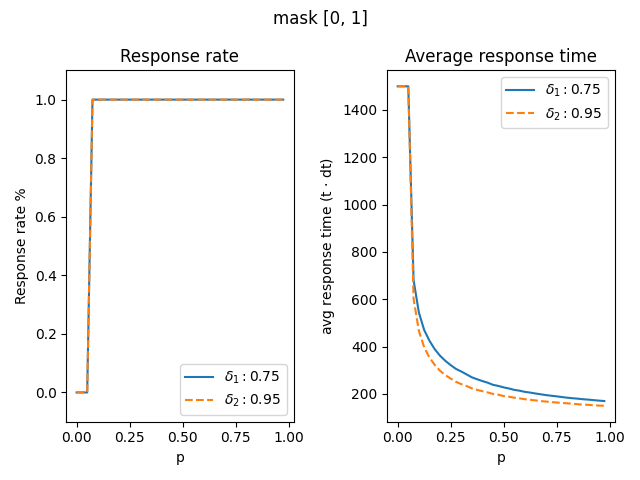
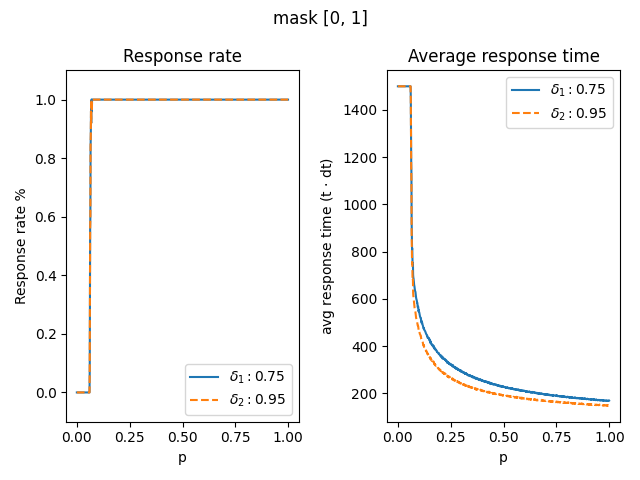
:gem:

diff --git a/tests/test_masked_timestamps_csv.py b/tests/test_masked_timestamps_csv.py
@@ -1,0 +1,136 @@
+import csv
+import os
+from pathlib import Path
+
+import numpy as np
+import glob
+
+import pandas as pd
+import plotly.graph_objects as go
+import plotly.io as pio
+import plotly.express as px
+
+from plotly.subplots import make_subplots
+
+from res import params
+from res.solvers import time_sequence, solve_population, euler_mayurama
+from versions.masked_population import masked_array
+
+pio.renderers.default = "browser"
+
+p_range = np.arange(0., 1.001, 0.025)
+d1 = 0.35
+d2 = 0.95
+
+masks = [
+    [0, 1],
+    [0.5, 0.5],
+    [1, 0]
+]
+
+n_pulses = 2
+params.tf = 2e3
+params.t_range = [0, 500]
+folder = f"..\\imgs\\timestamps\\[{d1},{d2}]"
+
+d1s = rf"$\delta_1:{d1}$"
+d2s = rf"$\delta_2:{d2}$"
+
+
+def show():
+    fig = go.Figure()
+
+    for f in os.listdir(folder):
+        df = pd.read_csv(folder + "\\" + f)
+        ts = df["t"]
+        trace1 = go.Scatter(visible=False, line=dict(color="blue", width=2),
+                            name=rf"$\delta_1:{d1}$", x=ts, y=df["x1"])
+        trace2 = go.Scatter(visible=False, line=dict(color="red", width=2),
+                            name=rf"$\delta_2:{d2}$", x=ts, y=df["x2"])
+        fig.add_traces([trace1, trace2])
+
+    fig.data[0].visible = True
+    fig.data[1].visible = True
+
+    steps = []
+    for i in range(len(p_range)):
+        pulse_strength = dict(
+            method="update",
+            args=[{"visible": [False] * len(fig.data)},
+                  {"title": f"Pulse strength: {p_range[i]}"}],
+            label=p_range[i]
+        )
+        pulse_strength["args"][0]["visible"][i * 2] = True
+        pulse_strength["args"][0]["visible"][i * 2 + 1] = True
+
+        steps.append(pulse_strength)
+
+    sliders = [dict(
+        active=1,
+        currentvalue={"prefix": "pulse strength ", "suffix": ""},
+        pad={"t": 10},
+        steps=steps
+    )]
+
+    fig.update_layout(sliders=sliders)
+    fig.show()
+
+
+def write():
+    ts = time_sequence(params.t0, params.tf, params.dt)
+
+    for mask in masks:
+        print(f"mask {mask}")
+        laser = masked_array([d1, d2], mask)
+
+        for pulse_strength in p_range:
+            print(pulse_strength)
+
+            x1_sum = np.zeros((len(ts)))
+            y1_sum = np.zeros((len(ts)))
+            x2_sum = np.zeros((len(ts)))
+            y2_sum = np.zeros((len(ts)))
+            w_sum = np.zeros((len(ts)))
+
+            for _ in range(n_pulses):
+                laser.state0()
+                params.p = pulse_strength
+                traj = solve_population(ts, laser, euler_mayurama)
+                x1_sum = np.add(x1_sum, traj[:, 0, 0])
+                x2_sum = np.add(x2_sum, traj[:, 1, 0])
+                y1_sum = np.add(y1_sum, traj[:, 0, 1])
+                y2_sum = np.add(y2_sum, traj[:, 1, 1])
+                w_sum = np.add(w_sum, traj[:, 0, 2])
+
+            x1 = x1_sum / n_pulses
+            x2 = x2_sum / n_pulses
+            y1 = y1_sum / n_pulses
+            y2 = y2_sum / n_pulses
+            w = w_sum / n_pulses
+
+            timestamp = []
+            for i in range(len(ts)):
+                timestamp.append({
+                    "t": ts[i],
+                    "x1": x1[i],
+                    "x2": x2[i],
+                    "y1": y1[i],
+                    "y2": y2[i],
+                    "w": w[i],
+                })
+
+            pcsv = Path(folder + f"/mask{mask}/p_{pulse_strength:.3f}.csv")
+            pcsv.parent.mkdir(exist_ok=True, parents=True)
+            try:
+                with open(pcsv, 'w', newline='', encoding='utf-8') as csvfile:
+                    print(f"writing file {csvfile}...")
+                    writer = csv.DictWriter(csvfile, fieldnames=['t', 'x1', 'x2', 'y1', 'y2', 'w'])
+                    writer.writeheader()
+                    writer.writerows(timestamp)
+
+            except IOError:
+                print("I/O error")
+
+
+# show()
+write()

diff --git a/tests/test_masked_timestamps.py b/tests/test_masked_timestamps.py
@@ -1,0 +1,78 @@
+from res import params
+from res.solvers import time_sequence, solve_population, euler_mayurama
+from versions.masked_population import masked_array
+import plotly.graph_objects as go
+import plotly.io as pio
+import numpy as np
+
+pio.renderers.default = "browser"
+
+params.tf = 5e3
+params.t_range = [0, 500]
+
+d1 = 0.35
+d2 = 0.95
+
+mask = [0, 1]
+n_pulses = 2
+laser = masked_array([d1, d2], mask)
+
+ts = time_sequence(params.t0, params.tf, params.dt)
+p_range = np.arange(0, 1.1, 0.001)
+
+# Create figure
+fig = go.Figure()
+
+# Add traces, one for each slider step
+for pulse_strength in p_range:
+    print(pulse_strength)
+
+    x1_sum = np.zeros((len(ts)))
+    x2_sum = np.zeros((len(ts)))
+
+    for _ in range(n_pulses):
+        laser.state0()
+        params.p = pulse_strength
+        traj = solve_population(ts, laser, euler_mayurama)
+        x1_sum = np.add(x1_sum, traj[:, 0, 0])
+        x2_sum = np.add(x2_sum, traj[:, 1, 0])
+
+    trace1 = go.Scatter(visible=False, line=dict(color="blue", width=2),
+                        name=rf"$\delta_1={d1}$", x=ts, y=np.divide(x1_sum, n_pulses))
+    trace2 = go.Scatter(visible=False, line=dict(color="red", width=2),
+                        name=rf"$\delta_2={d2}$", x=ts, y=np.divide(x2_sum, n_pulses))
+
+    fig.add_traces([trace1, trace2])
+
+# Make 10th trace visible
+fig.data[0].visible = True
+fig.data[1].visible = True
+
+# Create and add slider
+steps = []
+for i in range(len(p_range)):
+    pulse_strength = dict(
+        method="update",
+        args=[{"visible": [False] * len(fig.data)},
+              {"title": f"Pulse strength: {p_range[i]}"}],
+        label=p_range[i]
+    )
+    pulse_strength["args"][0]["visible"][i * 2] = True
+    pulse_strength["args"][0]["visible"][i * 2 + 1] = True
+
+    steps.append(pulse_strength)
+
+sliders = [dict(
+    active=100,
+    currentvalue={"prefix": "pulse strength ", "suffix": ""},
+    pad={"t": 10},
+    steps=steps
+)]
+
+fig.update_layout(
+    sliders=sliders
+)
+
+
+fig.show()
+

diff --git a/res/solvers.py b/res/solvers.py
@@ -89,7 +89,7 @@ def solve_population(ts, population, method):
 
 
 def solve_population_until_spike(t0, tf, dt, laser, method, spike_thresh):
-    ts = np.arange(t0, tf, dt)
+    ts = time_sequence(t0, tf, dt)
     t = t0
     sz = len(ts)
     i = 1
@@ -111,7 +111,7 @@ def solve_population_until_spike(t0, tf, dt, laser, method, spike_thresh):
 
 
 def solve_until_individual_spikes(t0, tf, dt, laser, method, spike_thresh):
-    ts = np.arange(t0, tf, dt)
+    ts = time_sequence(t0, tf, dt)
     t = t0
     sz = len(ts)
     i = 1
@@ -141,7 +141,7 @@ def solve_until_individual_spikes(t0, tf, dt, laser, method, spike_thresh):
 
 
 def solve_coupled_until_spike(t0, tf, dt, laser, n1, method, spike_thresh):
-    ts = np.arange(t0, tf, dt)
+    ts = time_sequence(t0, tf, dt)
     t = t0
     t1 = 0
     sz = len(ts)
@@ -170,5 +170,9 @@ def solve_coupled_until_spike(t0, tf, dt, laser, n1, method, spike_thresh):
 
 
 def solve_t(t0, tf, dt, laser, method):
-    ts = np.arange(t0, tf, dt)
+    ts = time_sequence(t0, tf, dt)
     return ts, solve(ts, laser, method)
+
+
+def time_sequence(t0, tf, dt):
+    return np.arange(t0, tf, dt)

diff --git a/tests/test_population.py b/tests/test_population.py
@@ -2,7 +2,7 @@ import numpy as np
 from matplotlib import pyplot as plt
 
 from res import params
-from res.solvers import solve_population, euler_mayurama
+from res.solvers import solve_population, euler_mayurama, time_sequence
 from versions import laser_population_fast as ls
 
 
@@ -17,7 +17,7 @@ def test_population():
     # deltas = [0.995, 1.5]
     print(deltas)
     test = ls.laser_array(deltas)  # initialise laser
-    ts = np.arange(params.t0, params.tf, params.dt)
+    ts = time_sequence(params.t0, params.tf, params.dt)
     traj = solve_population(ts, test, euler_mayurama)  # create solution trajectory
     plot(test, ts, traj, deltas)
 

diff --git a/tests/test_masked_response.py b/tests/test_masked_response.py
@@ -79,17 +79,17 @@ def test_pulse_masked(d1, d2, mask, ax):
     ax[1].plot(p_range, average_response_time2, '--', label=r'$\delta_2 :$' + f"{d2:.2f}")
 
 
-params.tf = 1.5e3
-d1_range = np.arange(0.55, 0.6, 0.1)
-d2_range = np.arange(0.65, 1.0, 0.1)
+params.tf = 2e3
+d1_range = np.arange(0.45, 0.5, 0.1)
+d2_range = np.arange(0.95, 1.0, 0.1)
 print(d1_range, d2_range)
-n_pulses = 100
+n_pulses = 25
 params.t_range = [0, 500]
-p_range = np.arange(0, 1, 0.025)
+p_range = np.arange(0, 0.4, 0.001)
 
 masks = [
-    [0.5, 0.5],
-    [1, 0],
+    # [0.5, 0.5],
+    # [1, 0],
     [0, 1]
 ]
 

diff --git a/tests/test_coupled.py b/tests/test_coupled.py
@@ -4,7 +4,7 @@ import numpy as np
 from matplotlib import pyplot as plt
 
 from res import params
-from res.solvers import euler_mayurama, solve_population
+from res.solvers import euler_mayurama, solve_population, time_sequence
 from versions.laser_population_fast import coupled_arrays
 
 
@@ -61,7 +61,7 @@ def test_coupled():
     st = datetime.now()
     coupled = coupled_arrays(d1, d2)
 
-    ts = np.arange(params.t0, params.tf, params.dt)
+    ts = time_sequence(params.t0, params.tf, params.dt)
 
     traj = solve_population(ts, coupled, euler_mayurama)
 

diff --git a/tests/test_masked.py b/tests/test_masked.py
@@ -2,7 +2,7 @@ import numpy as np
 from matplotlib import pyplot as plt
 
 from res import params
-from res.solvers import solve_population, euler_mayurama
+from res.solvers import solve_population, euler_mayurama, time_sequence
 from versions.masked_population import masked_array
 
 
@@ -37,7 +37,7 @@ def test_population(mask):
 params.tf = 2000
 params.p = 0.5
 params.t_range = [0, 500]
-ts = np.arange(params.t0, params.tf, params.dt)
+ts = time_sequence(params.t0, params.tf, params.dt)
 deltas = [0.45, 0.95]
 params.method = "mean_sum"
 

diff --git a/versions/laser_population_fast.py b/versions/laser_population_fast.py
@@ -18,7 +18,6 @@ class laser_array:
         for j in range(self.n_iris):
             self.s0[j] = [default_laser_params['e0'], self.deltas[j], default_laser_params['w0']]
 
-        self.state0 = lambda: setattr(self, 's', self.s0)
         self.s = self.s0
         self.x = self.X(self.s)
 
@@ -59,6 +58,10 @@ class laser_array:
 
     def set(self, s):
         self.s = s
+
+    def state0(self):
+        self.s = self.s0
+        return self.s
 
 
 class coupled_arrays:

diff --git a/versions/masked_population.py b/versions/masked_population.py
@@ -10,7 +10,7 @@ def static_pulse(t):
 
 def dynamic_pulse(t):
     if params.t_range[0] <= t < params.t_range[1]:
-        return  params.p * (t - params.t_range[0]) / (params.t_range[1] - params.t_range[0])
+        return params.p * (t - params.t_range[0]) / (params.t_range[1] - params.t_range[0])
     return 0
 
 
